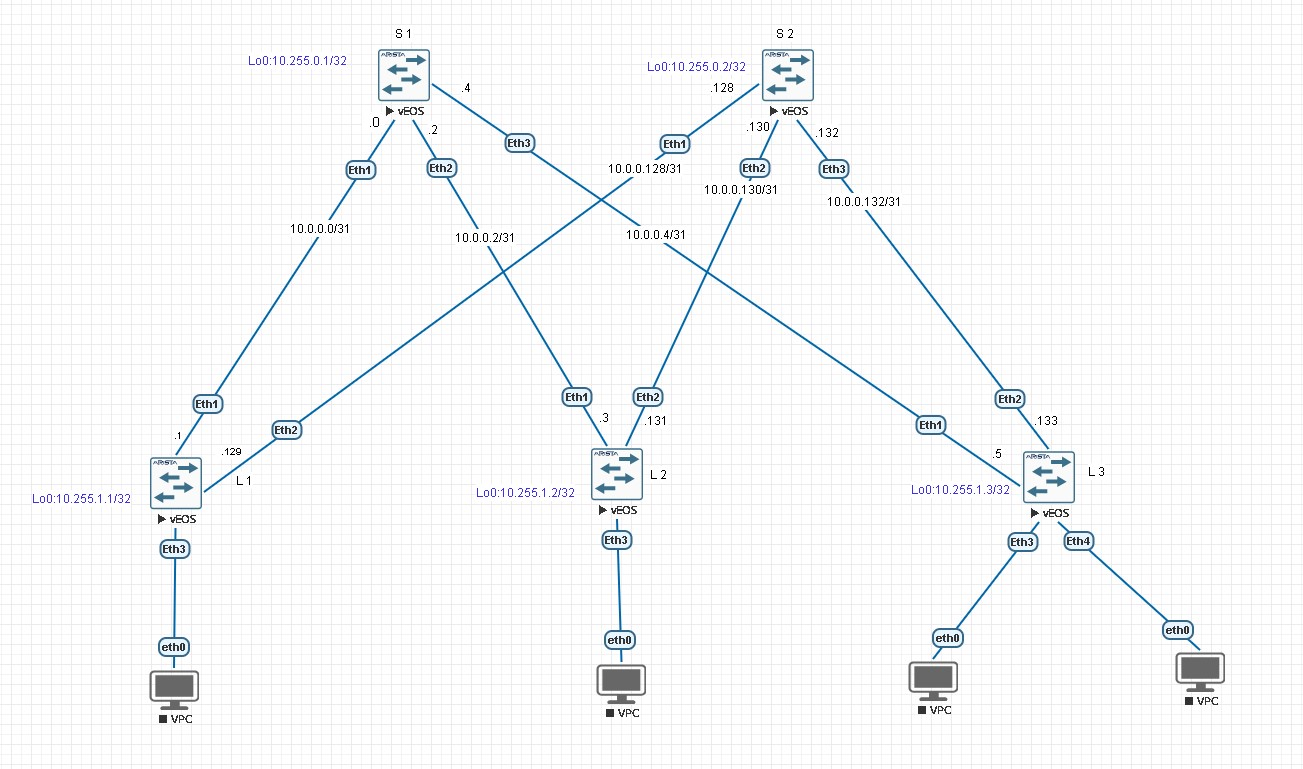
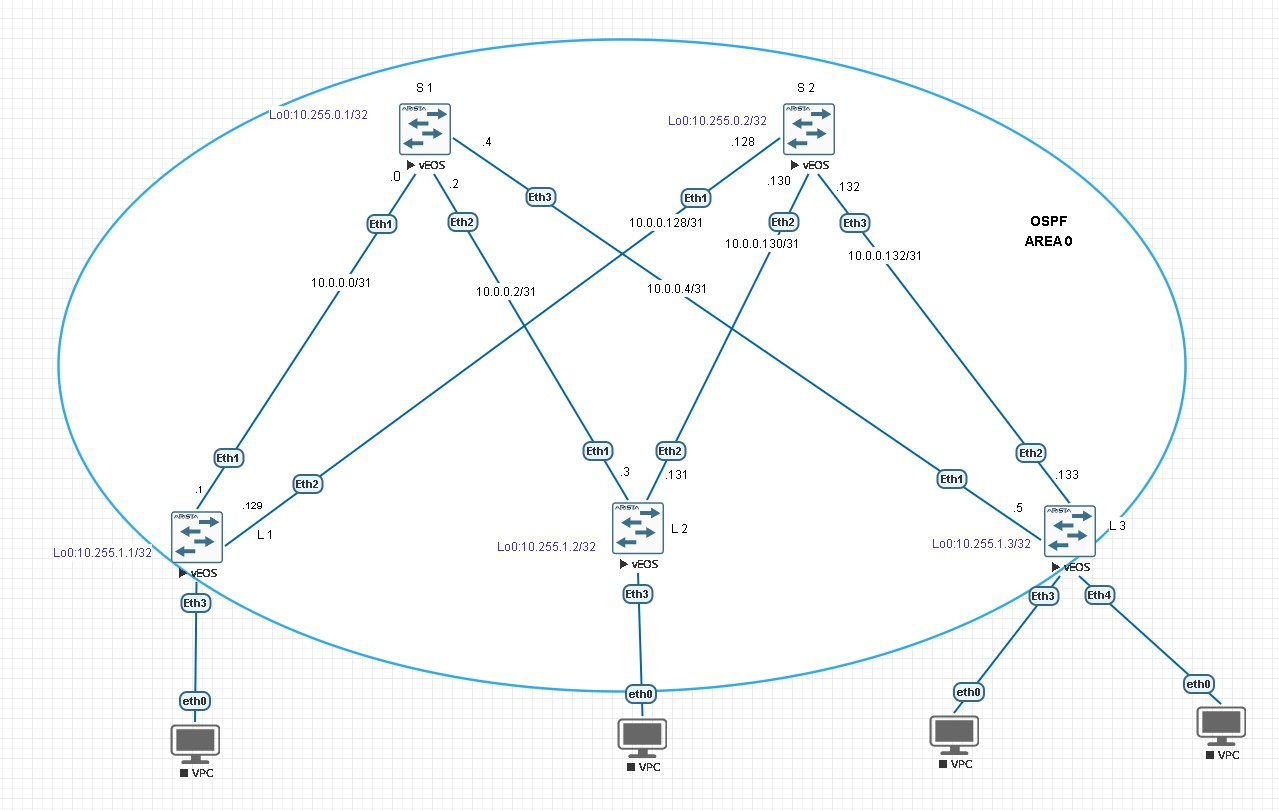
lab2

diff --git a/labs/lab02/README.md b/labs/lab02/README.md
@@ -26,6 +26,78 @@ LE1: | 10.255.1.1/32 |
 LE2: |10.255.1.2/32 |
 LE3: |10.255.1.3/32 |
 
+##Конфигурация устройств
+
+
+<details> 
+
+<summary> Leaf1 </summary>
+
+
+```
+!
+no aaa root
+!
+no service interface inactive port-id allocation disabled
+!
+transceiver qsfp default-mode 4x10G
+!
+service routing protocols model multi-agent
+!
+hostname Leaf1
+!
+spanning-tree mode mstp
+!
+system l1
+   unsupported speed action error
+   unsupported error-correction action error
+!
+interface Ethernet1
+   no switchport
+   ip address 10.0.0.1/31
+   ip ospf network point-to-point
+   ip ospf area 0.0.0.0
+!
+interface Ethernet2
+   no switchport
+   ip address 10.0.0.129/31
+   ip ospf network point-to-point
+   ip ospf area 0.0.0.0
+!
+interface Ethernet3
+!
+interface Ethernet4
+!
+interface Ethernet5
+!
+interface Ethernet6
+!
+interface Ethernet7
+!
+interface Ethernet8
+!
+interface Loopback0
+   ip address 10.255.1.1/32
+!
+interface Management1
+!
+ip routing
+!
+router multicast
+   ipv4
+      software-forwarding kernel
+   !
+   ipv6
+      software-forwarding kernel
+!
+router ospf 1
+   router-id 10.255.1.1
+   max-lsa 12000
+!
+end
+
+```
+
 
 | P2P-линки | adrss | линки |
 ------ | ------ | ----- |
